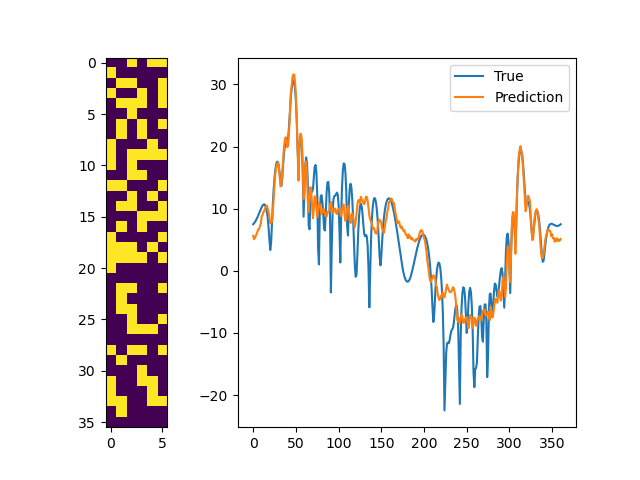
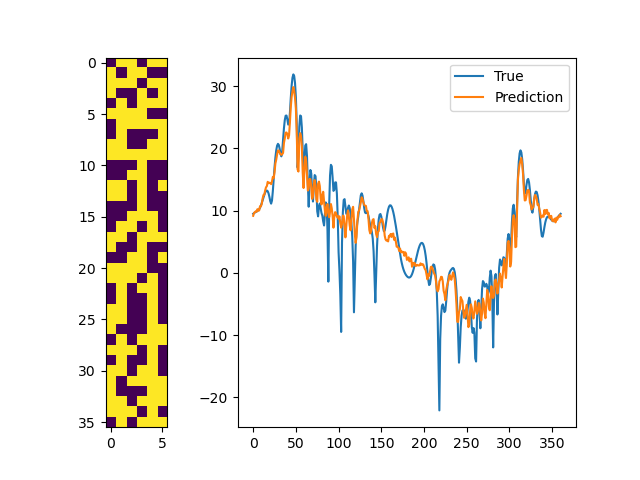
better results

diff --git a/build_model.py b/build_model.py
@@ -93,12 +93,16 @@ def main():
     zeros = np.array([[0,0,0,0,0,0],[0,0,0,0,0,0],[0,0,0,0,0,0],[0,0,0,0,0,0],[0,0,0,0,0,0],[0,0,0,0,0,0]])
     test_array = np.concatenate([ones,zeros,ones,zeros,ones,zeros],axis=0)
 
+    period_test = np.loadtxt('comsol_results/period_test2.csv', delimiter=",", dtype=float)
+    period_test = np.array(20*np.log10(period_test[:,1]))
+
     efarx = Model.call(tf.expand_dims(test_array,0))
     efarx = tf.squeeze(efarx)
 
     fig = plt.figure()
     ax = fig.subplots(1,2, gridspec_kw={'width_ratios': [1, 3]})
     ax[0].imshow(test_array)
+    ax[1].plot(period_test)
     ax[1].plot(efarx)
     ax[1].legend(['True','Prediction'])
     save_str = 'results/test_periodic.png'

diff --git a/lwa_angle_model.py b/lwa_angle_model.py
@@ -14,7 +14,7 @@ class LWAPredictionModel(tf.keras.Model):
         self.epochs = 10
 
         self.conv_layers = tf.keras.Sequential()
-        self.conv_layers.add(Conv2D(64, 2, 1, 'same',activation='relu'))
+        self.conv_layers.add(Conv2D(128, 2, 1, 'same',activation='relu'))
         # self.conv_layers.add(BatchNormalization())
         # self.conv_layers.add(MaxPooling2D((6,1)))
         # self.conv_layers.add(Conv2D(128, 2, 1, 'same',activation='relu'))
